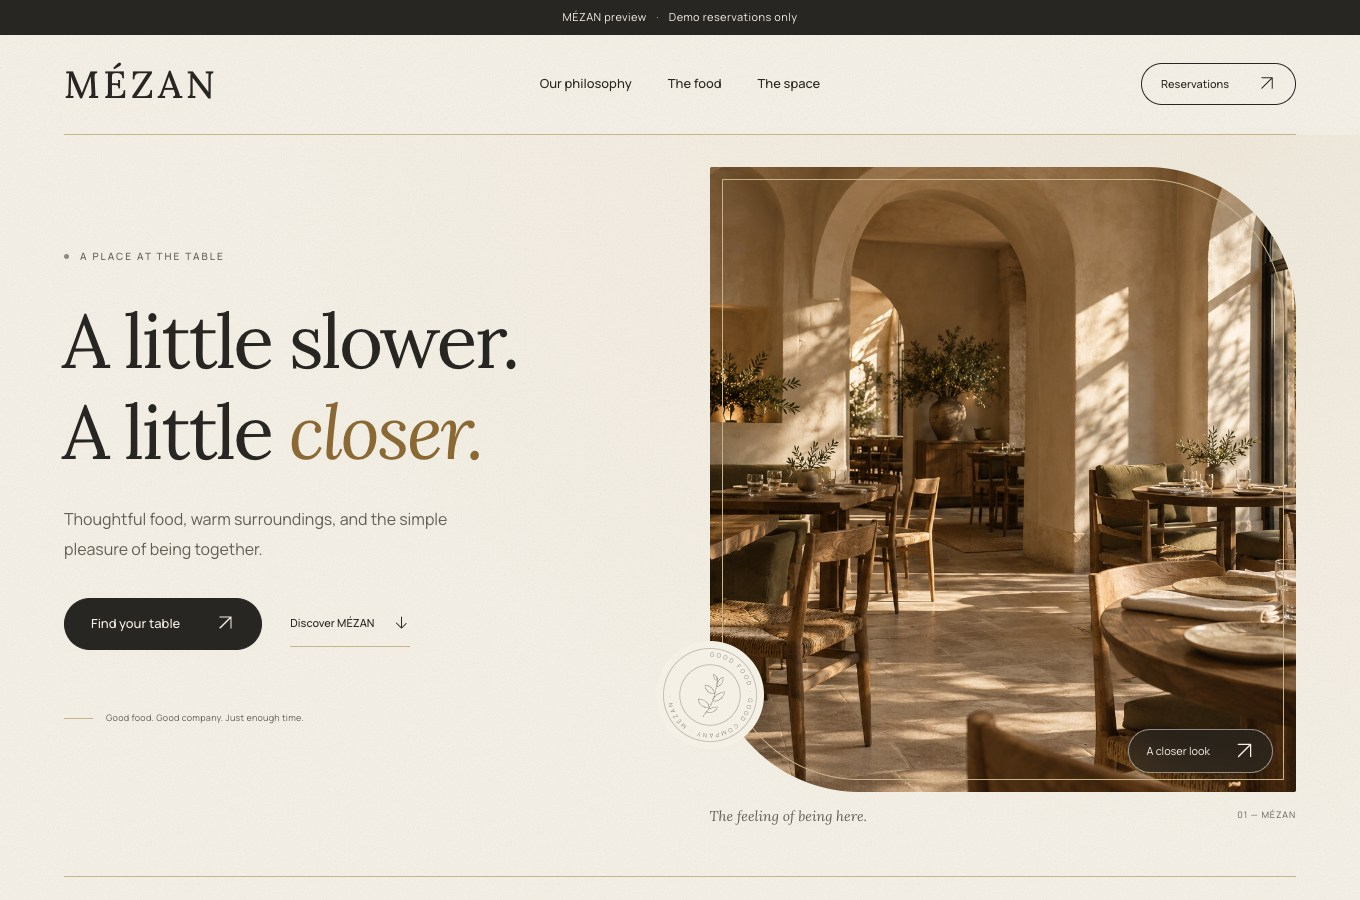
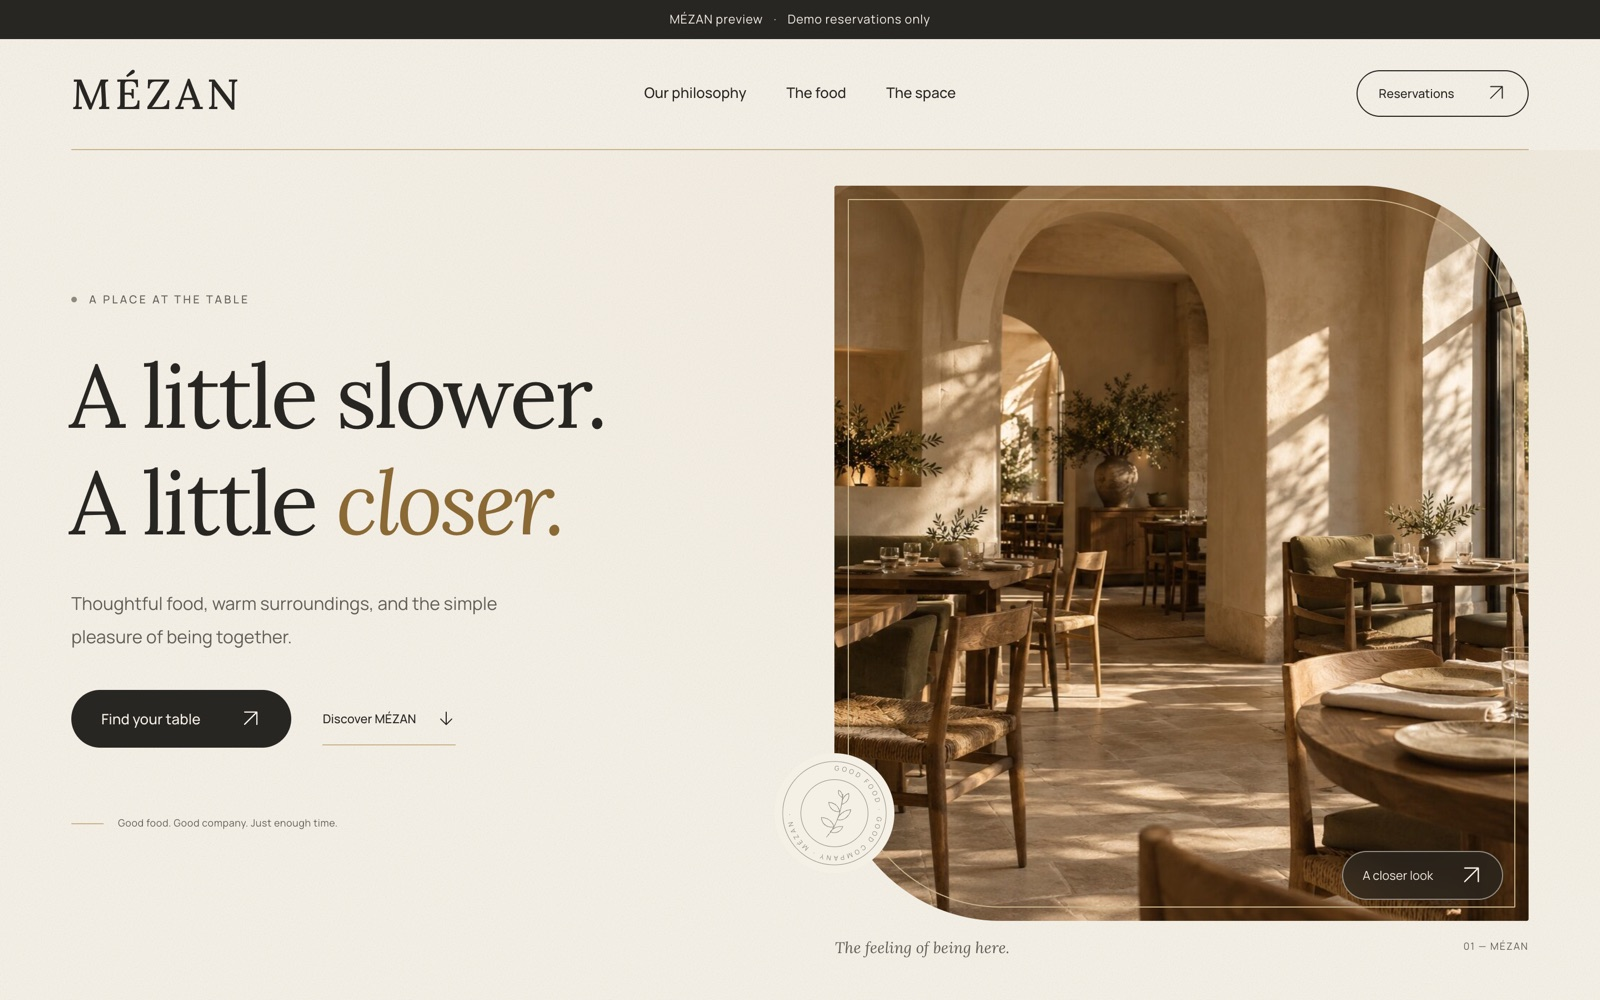
Rewrite the README around the backend and infrastructure work
Lead with the database, security and DevOps work, link the live demo,
and replace the screenshots with the current booking, QR and staff views.

diff --git a/README.md b/README.md
@@ -1,33 +1,106 @@
+<div align="center">
+
 # MÉZAN
 
-A restaurant website with mobile reservations, QR confirmation cards, and a staff dashboard for check-in.
+**A restaurant reservation platform: guests book a table from their phone, get a QR confirmation, and staff check them in at the door.**
 
-![MÉZAN homepage with a sunlit restaurant dining room and a link to book a table](screenshots/home.jpg)
+[**Live demo →**](https://mezan-mu.vercel.app) &nbsp;·&nbsp; [Staff dashboard](https://mezan-mu.vercel.app/staff) &nbsp;·&nbsp; [Contact](#contact)
+
+![Node.js](https://img.shields.io/badge/Node.js_22-339933?logo=nodedotjs&logoColor=white)
+![Express](https://img.shields.io/badge/Express_5-000?logo=express&logoColor=white)
+![PostgreSQL](https://img.shields.io/badge/PostgreSQL_17-4169e1?logo=postgresql&logoColor=white)
+![Docker](https://img.shields.io/badge/Docker_Compose-2496ed?logo=docker&logoColor=white)
+![GitHub Actions](https://img.shields.io/badge/GitHub_Actions-2088ff?logo=githubactions&logoColor=white)
+![Next.js](https://img.shields.io/badge/Next.js_16-000?logo=nextdotjs&logoColor=white)
+
+![MÉZAN homepage](screenshots/home.jpg)
+
+</div>
+
+## The problem
+
+Small restaurants often take bookings by phone, Instagram messages or a paper notebook. This leads to double bookings and no-shows, and nobody knows who is actually at the door. MÉZAN replaces all of that with one system. Guests book in under a minute from their phone. The database guarantees a table can never be booked twice. Staff check guests in by scanning a QR code.
 
 ## From booking to check-in
 
-| Mobile booking | QR confirmation |
+| 1. Guest books on mobile | 2. Gets a QR confirmation | 3. Staff check them in |
+| --- | --- | --- |
+| <img src="screenshots/booking-mobile.jpg" width="260" alt="Mobile reservation form with date, party size and available times"> | <img src="screenshots/confirmation-qr.jpg" width="260" alt="Reservation confirmation card with a check-in QR code"> | <img src="screenshots/staff-guest.jpg" width="260" alt="Staff view of a guest's reservation with a Confirm arrival button"> |
+| Picks a date, party size and one of the times that are actually free. | Gets a booking reference, a QR code, and a private link to reschedule or cancel. | Staff scan the QR or type the reference, then confirm arrival. |
+
+![Staff dashboard showing the evening's reservations, a service summary and arrival progress](screenshots/staff-service.jpg)
+
+### Try it yourself
+
+1. Open the [live demo](https://mezan-mu.vercel.app/reservations) and book a table with made-up details.
+2. Keep the confirmation open. In the same browser, go to [`/staff`](https://mezan-mu.vercel.app/staff) and sign in with the demo login shown on that page.
+3. Find the booking by its reference and confirm arrival. Reload the guest's confirmation, and it now shows **Arrived**.
+
+> The public demo runs entirely in your browser with fictional bookings and simulated email. The full version runs on an Express API, PostgreSQL and a background email worker, all containerized with Docker Compose.
+
+## What I focused on: backend & infrastructure
+
+I built this project to practise backend architecture and DevOps on a real-world problem. I wrote the backend, database and infrastructure myself. I built the frontend with the help of AI tools.
+
+**Data integrity**
+- **Double bookings are impossible at the database level.** A PostgreSQL `EXCLUDE USING gist` constraint on each table's time range rejects overlapping reservations. This holds even when two guests submit at the same moment. The check lives in the database, not only in application code.
+- **Safe to submit twice.** Every booking request carries an idempotency key, so a double tap or a network retry never creates a second reservation.
+- **Correct times across midnight.** Service hours like 17:00–02:00 work properly, including daylight-saving changes. A 01:00 arrival is grouped under the previous evening's service.
+
+**Security**
+- Passwords are hashed with scrypt and compared in constant time.
+- Session tokens are stored hashed and sent in HttpOnly cookies.
+- Guest data waiting in the email queue is encrypted with AES-256-GCM.
+- Rate limiting is backed by the database, and all input is validated with Zod.
+- Login responses take the same time whether or not an account exists, so attackers can't use them to discover accounts.
+
+**Reliability**
+- **Emails can't get lost.** Emails are written to an outbox table and sent by a separate worker process. Jobs are claimed with `FOR UPDATE SKIP LOCKED` and retried up to five times. Staff can re-send failed messages.
+- Encrypted scheduled backups, with restore verification in a throwaway database.
+- Health checks cover the database, website and email worker.
+
+**DevOps**
+- Docker Compose stacks for local, CI, staging and production, with Caddy providing automatic HTTPS.
+- GitHub Actions runs linting, API tests, PostgreSQL integration tests and Playwright browser tests (desktop and mobile) on every push.
+- A CI job deliberately tampers with a backup to prove the restore check rejects it.
+- Deployments: the browser demo on Vercel, and the full stack on Render + Neon.
+
+## Architecture
+
+```text
+Browser ──► Next.js ──/api proxy──► Express API ──► PostgreSQL
+                                        │
+                                        └─ email outbox ──► mail worker ──► SMTP
+```
+
+The frontend never receives database or email secrets. All booking rules live in the API and the database. Next.js forwards `/api` calls on the same origin, so staff session cookies stay secure.
+
+| Layer | Tools |
 | --- | --- |
-| <img src="screenshots/mobile-booking.jpg" width="340" alt="MÉZAN mobile reservation form with date, guest count, and available times"> | <img src="screenshots/qr-confirmation.jpg" width="340" alt="MÉZAN reservation card for a fictional guest with a downloadable check-in QR code"> |
+| Backend | Node.js 22, Express 5, Zod, PostgreSQL 17, Nodemailer |
+| Infrastructure | Docker Compose, Caddy, GitHub Actions, Vercel, Render, Neon |
+| Testing | Node test runner, PostgreSQL integration tests, Playwright |
+| Frontend | Next.js 16, React 19, CSS, Luxon, QR generation and camera scanning |
 
-![MÉZAN staff dashboard showing a sample reservation marked Arrived](screenshots/staff-check-in.jpg)
+## Features
 
-## Demo walkthrough
-
-1. The guest selects a date, party size, and time, then confirms with sample contact details.
-2. The confirmation card shows the reservation reference and a downloadable QR code. The guest can also reschedule or cancel from this card.
-3. Staff scan the QR code or enter the booking reference, review the details, and confirm arrival. The reservation then appears as **Arrived** in the dashboard.
-
-The demo shown here uses fictional reservations saved in the browser and simulated email delivery.
-
-## What I built
-
-| Area | Features |
+| Area | What it does |
 | --- | --- |
-| Restaurant website | Responsive home, story, menu, and visit pages |
-| Reservation flow | Availability by date and party size, contact validation, QR confirmation, rescheduling, and cancellation |
-| Staff dashboard | Reservation search and status filters, QR check-in, and settings for service hours, booking rules, and table capacity |
+| **Reservations** | Live availability by date and party size, contact validation, QR confirmation, private reschedule & cancel links |
+| **Staff dashboard** | Secure login, the evening's bookings, guest search, QR check-in, arrival / no-show / completion |
+| **Restaurant settings** | Staff edit tables, service hours, notice period, booking window and closed dates without touching code |
+| **Email** | Confirmation and change notifications through a queued worker with retries |
 
-The site and dashboard use **Next.js, React, and CSS**. The full application uses **Express and PostgreSQL** for reservations and staff operations. The browser demo simulates those operations without a server or database.
+## About the source code
 
-The full implementation and Git history are private. I’m happy to walk through the booking logic, staff workflow, and deployment setup in a technical review.
+This repository is a showcase. The full source code is private. I'm happy to walk through the database design, booking logic and deployment setup in an interview.
+
+## Contact
+
+**Abdelmoula Nemili**: Software engineering student at 1337 (UM6P), looking for a backend / DevOps internship
+
+- Email: [nemiliabdelmoula@gmail.com](mailto:nemiliabdelmoula@gmail.com)
+- LinkedIn: [linkedin.com/in/abdelmoula-nemili](https://www.linkedin.com/in/abdelmoula-nemili/)
+- GitHub: [@Abnemili](https://github.com/Abnemili)
+
+*All restaurant content, names and bookings in the demo are fictional.*
